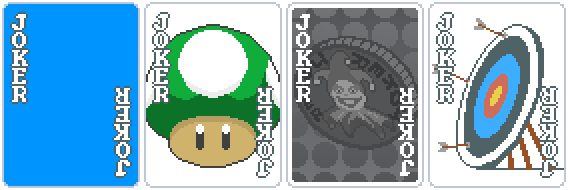
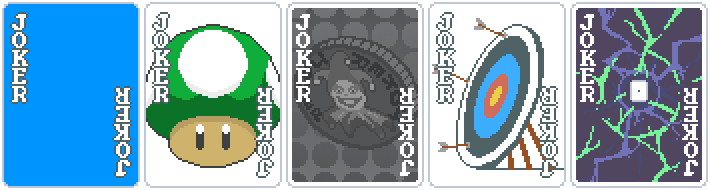
added some more jokers

diff --git a/TODO.md b/TODO.md
@@ -15,7 +15,6 @@ new seals
 joker cult
 card jokers: chips or + mult for commons
 spectral - upgrade rarity of jokers
-double up, pairs retrigger all cards held in hand
 blinds for new suits
 
 joker ideas:
@@ -24,6 +23,8 @@ sunbathing joker- cards gain bonuses longer kept in hand
 1 more suit
 illusion cards
 chance to lose enhancement
+
+royal flush joker
 
 joker that swaps chips and mult for a hand
 
@@ -71,10 +72,8 @@ make trading card work - done yippee
 test editions again - done yippee
 play two pair and get $4
 
-# fixes
-
-planet incompat with bunco?
-ben cant handle big numbers lmao
-touch up some art
-balancing with perk cards
-can select 5 cards and 1 perk card
+# more to do
+remove planets
+change ben effect
+then everything implemented is working
+more jnokers
